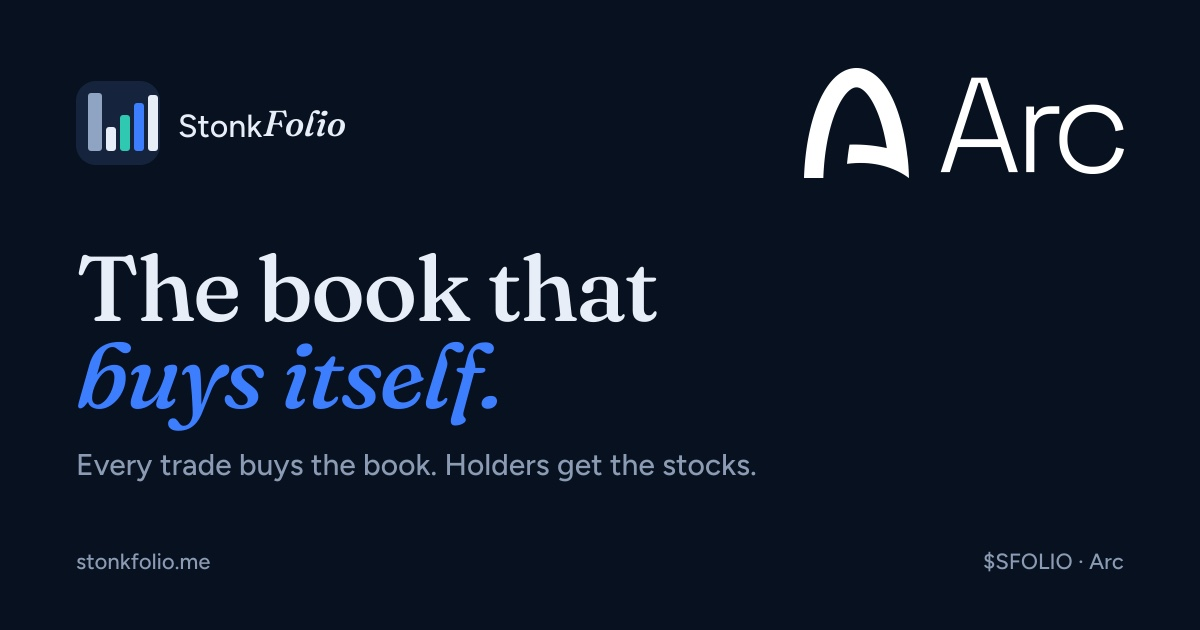
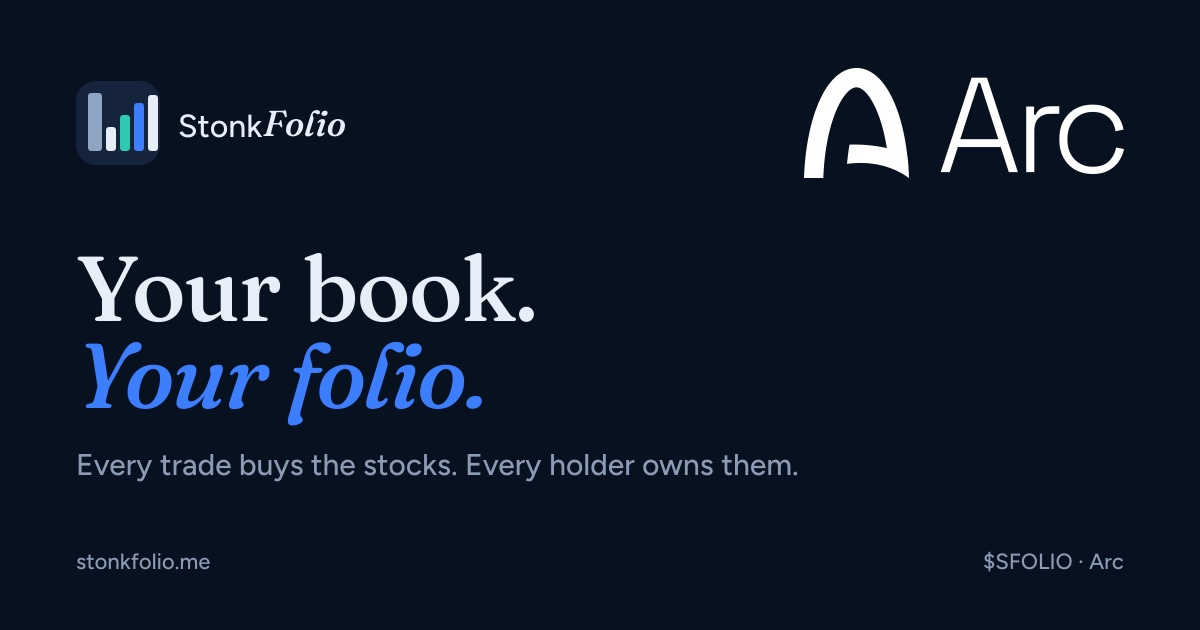
Retitle the hero and share card to Your book. Your folio.
Every trade buys the stocks. Every holder owns them.

Changed region(s): [[0.0617, 0.3921, 0.555, 0.5127], [0.0617, 0.5429, 0.4317, 0.6937], [0.3083, 0.7238, 0.6783, 0.754]]

diff --git a/src/app/layout.tsx b/src/app/layout.tsx
@@ -21,7 +21,7 @@ const plex = IBM_Plex_Mono({
   weight: ["400", "500", "600"],
 });
 
-const description = "Every trade buys the book. A small slice stays in USYC. Holders get the stocks.";
+const description = "Every trade buys the stocks. Every holder owns them.";
 
 export const metadata: Metadata = {
   metadataBase: new URL("https://www.stonkfolio.me"),
@@ -31,7 +31,7 @@ export const metadata: Metadata = {
   },
   description,
   openGraph: {
-    title: "The book that buys itself.",
+    title: "Your book. Your folio.",
     description,
     url: "https://www.stonkfolio.me",
     siteName: "StonkFolio",
@@ -43,14 +43,14 @@ export const metadata: Metadata = {
         secureUrl: "https://www.stonkfolio.me/og.jpg",
         width: 1200,
         height: 630,
-        alt: "StonkFolio. The book that buys itself.",
+        alt: "StonkFolio. Your book. Your folio.",
         type: "image/jpeg",
       },
     ],
   },
   twitter: {
     card: "summary_large_image",
-    title: "The book that buys itself.",
+    title: "Your book. Your folio.",
     description,
     site: "@StonkfolioArc",
     creator: "@StonkfolioArc",
@@ -59,7 +59,7 @@ export const metadata: Metadata = {
         url: "/og.jpg",
         width: 1200,
         height: 630,
-        alt: "StonkFolio. The book that buys itself.",
+        alt: "StonkFolio. Your book. Your folio.",
       },
     ],
   },

diff --git a/src/lib/share-card.tsx b/src/lib/share-card.tsx
@@ -2,7 +2,7 @@ import { readFile } from "node:fs/promises";
 import { ImageResponse } from "next/og";
 
 export const shareSize = { width: 1200, height: 630 };
-export const shareAlt = "StonkFolio. The book that buys itself.";
+export const shareAlt = "StonkFolio. Your book. Your folio.";
 
 const bars = [
   { height: 58, color: "#8fa3c2", width: 14 },
@@ -78,7 +78,7 @@ export async function shareCard() {
             letterSpacing: -2,
           }}
         >
-          The book that
+          Your book.
         </div>
         <div
           style={{
@@ -91,10 +91,10 @@ export async function shareCard() {
             color: "#3d7eff",
           }}
         >
-          buys itself.
+          Your folio.
         </div>
         <div style={{ display: "flex", marginTop: 28, fontSize: 30, color: "#8b9bb3" }}>
-          Every trade buys the book. Holders get the stocks.
+          Every trade buys the stocks. Every holder owns them.
         </div>
       </div>
       <div style={{ display: "flex", justifyContent: "space-between", fontSize: 22, color: "#8b9bb3" }}>

diff --git a/src/components/home-view.tsx b/src/components/home-view.tsx
@@ -41,12 +41,11 @@ export function HomeView() {
           <div className="stagger-in flex flex-col gap-6 lg:flex-row lg:items-end lg:justify-between">
             <div className="max-w-xl">
               <h1 className="display text-fg">
-                The book that
-                <span className="italic text-accent"> buys itself.</span>
+                Your book.
+                <span className="block italic text-accent">Your folio.</span>
               </h1>
               <p className="mt-5 max-w-md text-sm leading-relaxed text-muted sm:text-base">
-                Every trade feeds the Circle Agent Wallet. It buys the book. A small slice stays in USYC. Holders get the
-                stocks, then farm them.
+                Every trade buys the stocks. Every holder owns them.
               </p>
             </div>
             <div className="flex flex-wrap gap-3">
